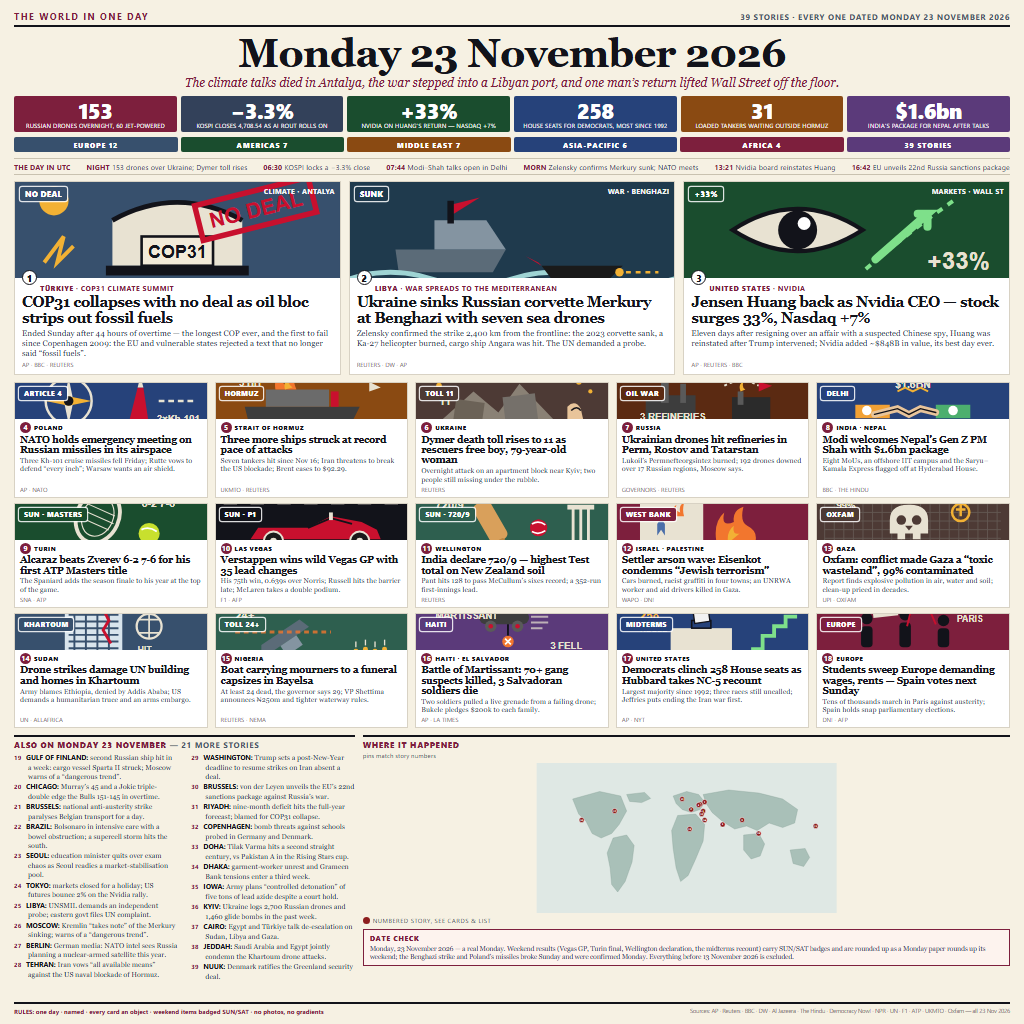
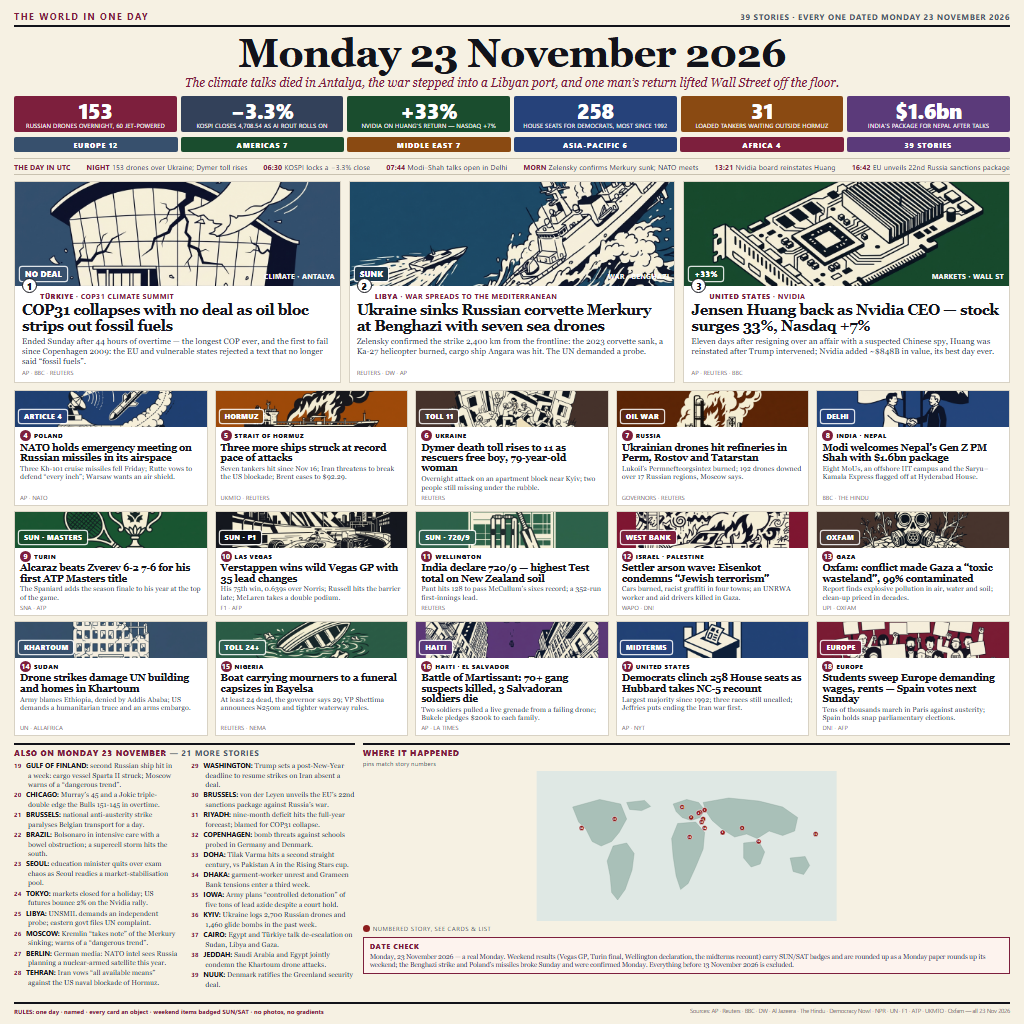
Redraw all eighteen card illustrations with one locked vector template
Swap the hand-written SVG pictograms for illustrations drawn by an image
model from a single prompt template (flat vector, two-tone cream and ink,
solid band colour, no text or logos), rendered into art/ and embedded as
data URIs by src/bands.mjs. art.mjs stays as the fallback. The Nvidia band
becomes a GPU die instead of an eye, the COP31 band a cracking conference
hall instead of a capitol dome.

diff --git a/README.md b/README.md
@@ -5,14 +5,22 @@
 [![reward](https://make.fun/badge/news-image-20261123/Rieff90/world-in-one-day-20261123/reward.svg)](https://make.fun/bounty/news-image-20261123?utm_source=github&utm_medium=readme&utm_campaign=news-image-20261123)
 
 Monday 23 November 2026 summed up in one image: 39 stories across five continents on a single
-front page. Every hero and every tile carries a flat hand-drawn SVG pictogram — a NO DEAL stamp
-falling off the COP31 hall, a corvette going under at Benghazi as a sea drone races in, the
-Nvidia eye with a +33% arrow, a compass rose over a Kh-101, a burning tanker, a skull over a
-hazard grid — because an object survives the thumbnail where prose does not. Breadth is carried
-by a two-column list of one-line items, the day's six figures sit in a stat strip, a clock line
-runs the day in UTC, a pin map shows where it happened, and a visible date check records what
-was kept out and why. Weekend results that a Monday paper rounds up (Vegas GP, the Turin final,
-Wellington's 720/9) carry SUN badges so nothing passes as Monday news that is not.
+front page. Every hero and every tile carries a flat-vector illustration — the COP31 hall
+cracking as its text blows away, a corvette going under at Benghazi as a sea drone races in, a
+green GPU die with its +33% arrow, a radar and a falling Kh-101, a burning supertanker, a gas
+mask over cracked ground — because an object survives the thumbnail where prose does not.
+
+The eighteen illustrations were drawn by an image model from one locked prompt template: flat
+vector editorial, two-tone cream `#F6F1E3` and dark ink, solid band colour, no text, no logos,
+no gradients, no photorealism. That single template is what keeps eighteen panels in one visual
+language. `src/art.mjs` keeps the hand-written SVG pictograms as the fallback for any band
+without a rendered PNG.
+
+Breadth is carried by a two-column list of one-line items, the day's six figures sit in a stat
+strip, a clock line runs the day in UTC, a pin map shows where it happened, and a visible date
+check records what was kept out and why. Weekend results that a Monday paper rounds up (Vegas
+GP, the Turin final, Wellington's 720/9) carry SUN badges so nothing passes as Monday news that
+is not.
 
 ## Run it
 
@@ -29,9 +37,10 @@ model call: the judge sees exactly the bytes of that file, and both runs copy th
 node src/page.mjs out/entry.png   # renders the page with headless Chrome, writes out/entry.png
 ```
 
-`src/stories.mjs` holds the day's 39 verified stories with their sources; `src/art.mjs` holds
-the 18 hand-written pictograms; `src/page.mjs` turns them into one 1024×1024 page and
-screenshots it.
+`src/stories.mjs` holds the day's 39 verified stories with their sources; `art/` holds the
+eighteen rendered band illustrations; `src/bands.mjs` embeds them as data URIs (falling back to
+the hand-written pictograms in `src/art.mjs`); `src/page.mjs` turns the whole day into one
+1024×1024 page and screenshots it.
 
 ## License
 
